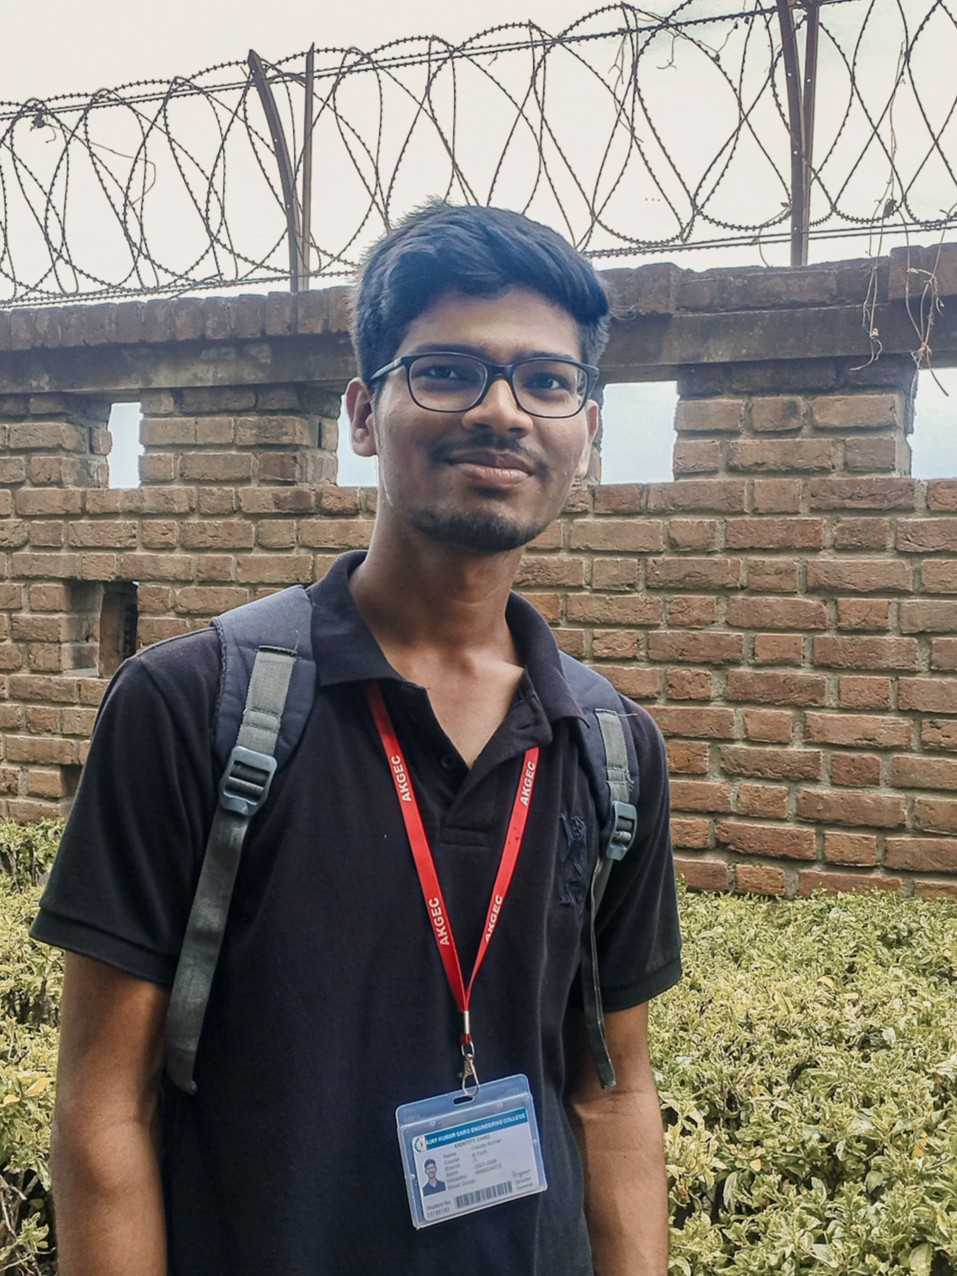
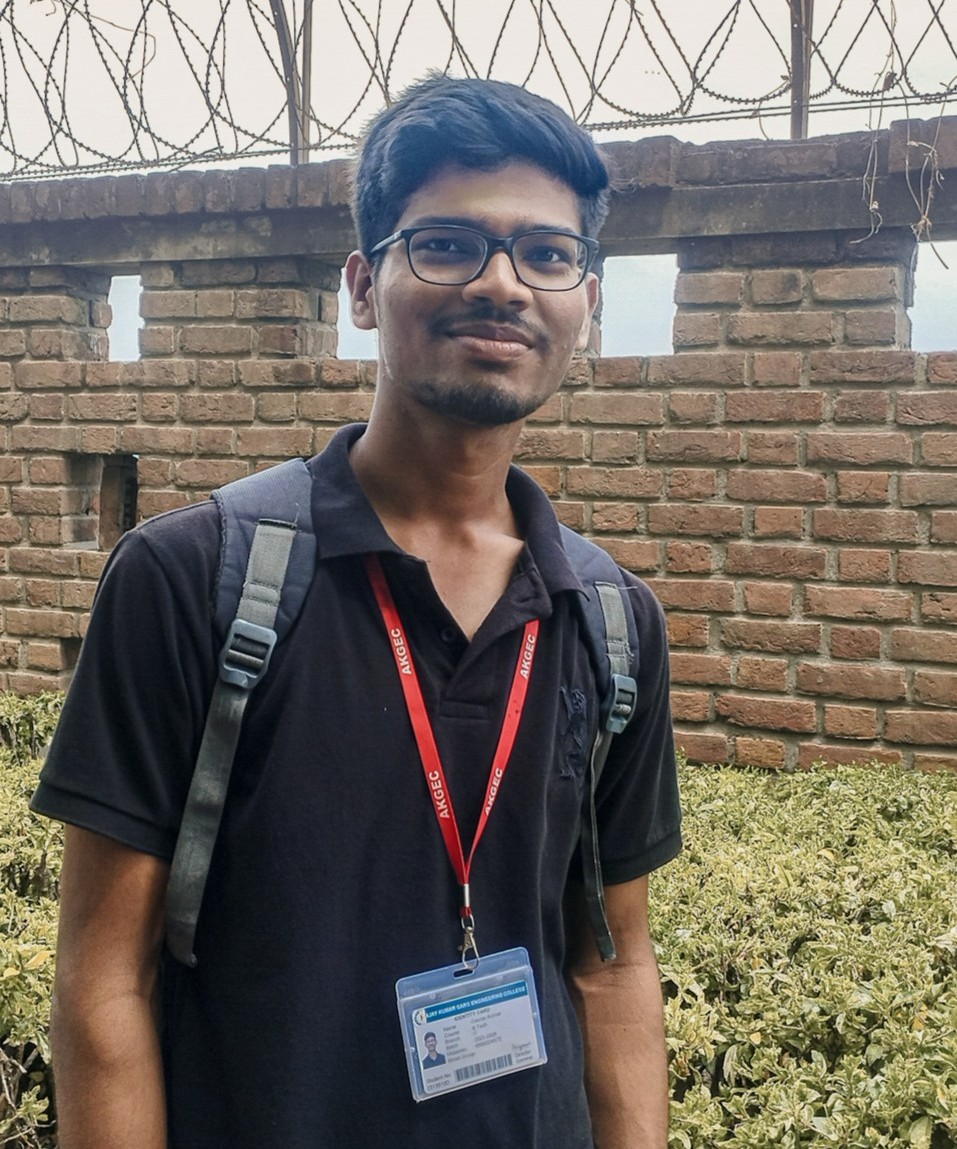
update about section and responsive styles

diff --git a/about.html b/about.html
@@ -9,7 +9,7 @@
 <link rel="preconnect" href="https://fonts.googleapis.com" />
 <link rel="preconnect" href="https://fonts.gstatic.com" crossorigin />
 <link
-  href="https://fonts.googleapis.com/css2?family=Space+Grotesk:wght@500;600;700&family=Inter:wght@400;500;600&family=JetBrains+Mono:wght@400;500;600&display=swap"
+  href="https://fonts.googleapis.com/css2?family=Space+Grotesk:wght@500;600;700&family=Inter:wght@400;500;600&family=Quicksand:wght@400;600;700&family=JetBrains+Mono:wght@400;500;600&display=swap"
   rel="stylesheet"
 />
 
@@ -61,9 +61,9 @@
         needs them.
       </p>
       <p>
-        I'm a final-year B.Tech IT Engineering student at
+        I'm a recent B.Tech IT Engineering graduate from
         <strong>Ajay Kumar Garg Engineering College, Ghaziabad</strong>,
-        currently focused on shipping clean, maintainable React applications.
+        focused on building clean, maintainable, and production-oriented React applications.
       </p>
     </div>
   </div>

diff --git a/css/sections-common.css b/css/sections-common.css
@@ -1,15 +1,5 @@
-/* =========================================
-   SHARED FULL-WIDTH SECTION STYLING
-   (used by About, Academics, Skills, Works,
-   Certificates, Contact)
-========================================= */
-
 .section-container,
-.about-section,
-#academics,
-#skills,
 #works,
-.certificates-section,
 .contact-section {
   width: 100%;
   max-width: 100%;
@@ -20,11 +10,7 @@
 
 /* Section Headings */
 .section-container h2,
-.about-section h2,
-#academics h2,
-#skills h2,
-#works h2,
-.certificates-section h2 {
+#works h2 {
   font-size: 1.8rem;
   font-weight: 700;
   color: #022b4e;
@@ -33,17 +19,13 @@
 }
 
 .section-container h2::after,
-.about-section h2::after,
-#academics h2::after,
-#skills h2::after,
-#works h2::after,
-.certificates-section h2::after {
+#works h2::after {
   content: "";
   display: block;
   width: 80px;
   height: 3px;
   background: #5ad4f8;
-  margin: 0.01rem auto 0;
+  margin: 0.5rem auto 0;
   border-radius: 2px;
 }
 

diff --git a/css/about.css b/css/about.css
@@ -33,22 +33,22 @@
 }
 
 .about-section h2 {
-  font-family: var(--font-display);
+  font-family: quicksand;
   font-size: clamp(1.7rem, 5vw, 2.6rem);
   font-weight: 600;
   text-align: center;
   color: var(--navy);
   letter-spacing: -0.02em;
-  line-height: 1.2;
+  line-height: 0.8;
   word-break: break-word;
 }
 
 .about-section h2::after {
   content: "";
   display: block;
-  width: 46px;
+  width: 75px;
   height: 3px;
-  margin: 0.9rem auto 0;
+  margin: 0.7rem auto 0;
   background: var(--cyan);
   border-radius: 2px;
 }
@@ -139,8 +139,7 @@
 .editor-frame img {
   display: block;
   width: 100%;
-  height: clamp(220px, 40vw, 320px);
-  object-fit: cover;
+  height: auto;
 }
 
 /* the text panel reads like a JS object literal, then plain prose */

diff --git a/css/projects.css b/css/projects.css
@@ -1,7 +1,3 @@
-/* =========================================
-   PROJECTS SECTION
-========================================= */
-
 #works {
   background: #f8fbfd;
 }
